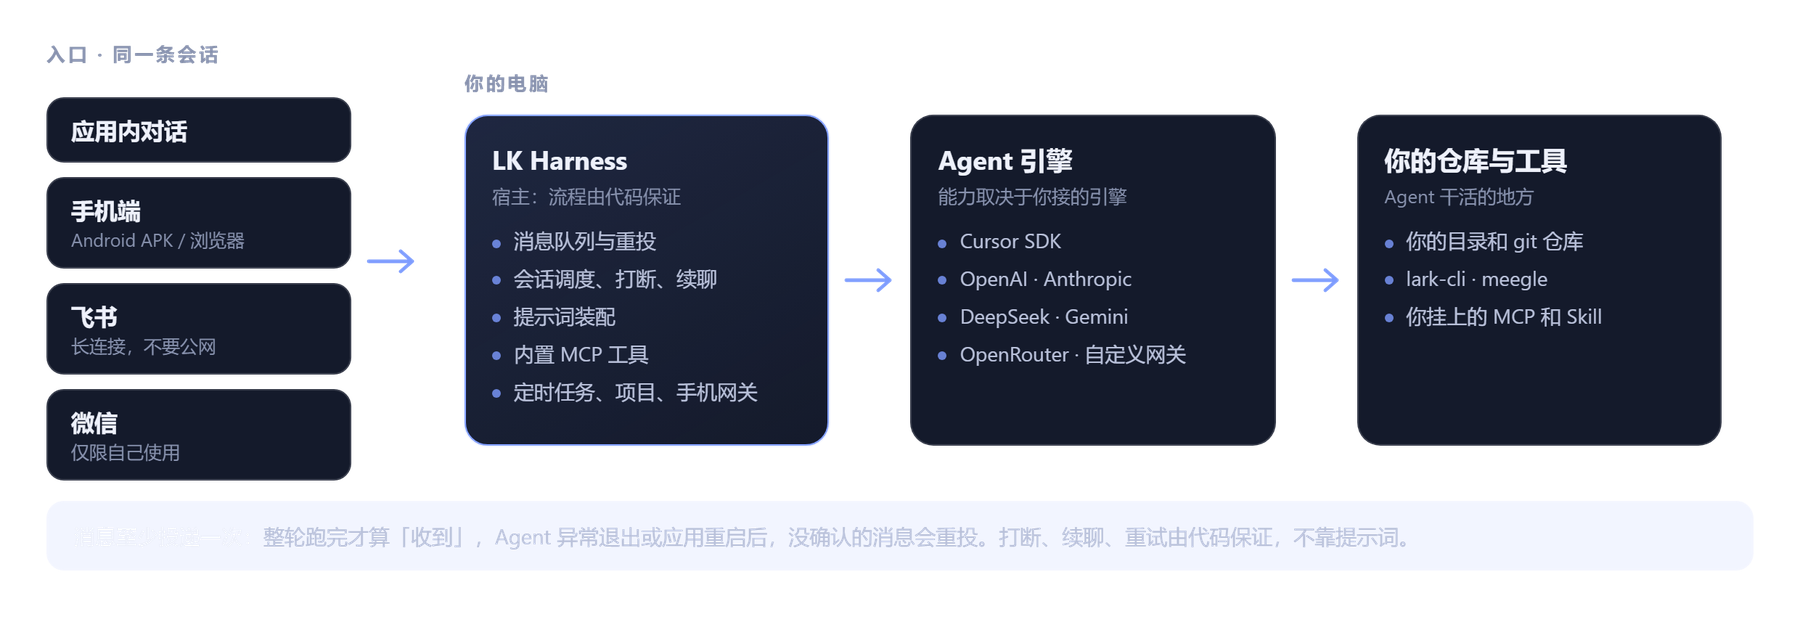
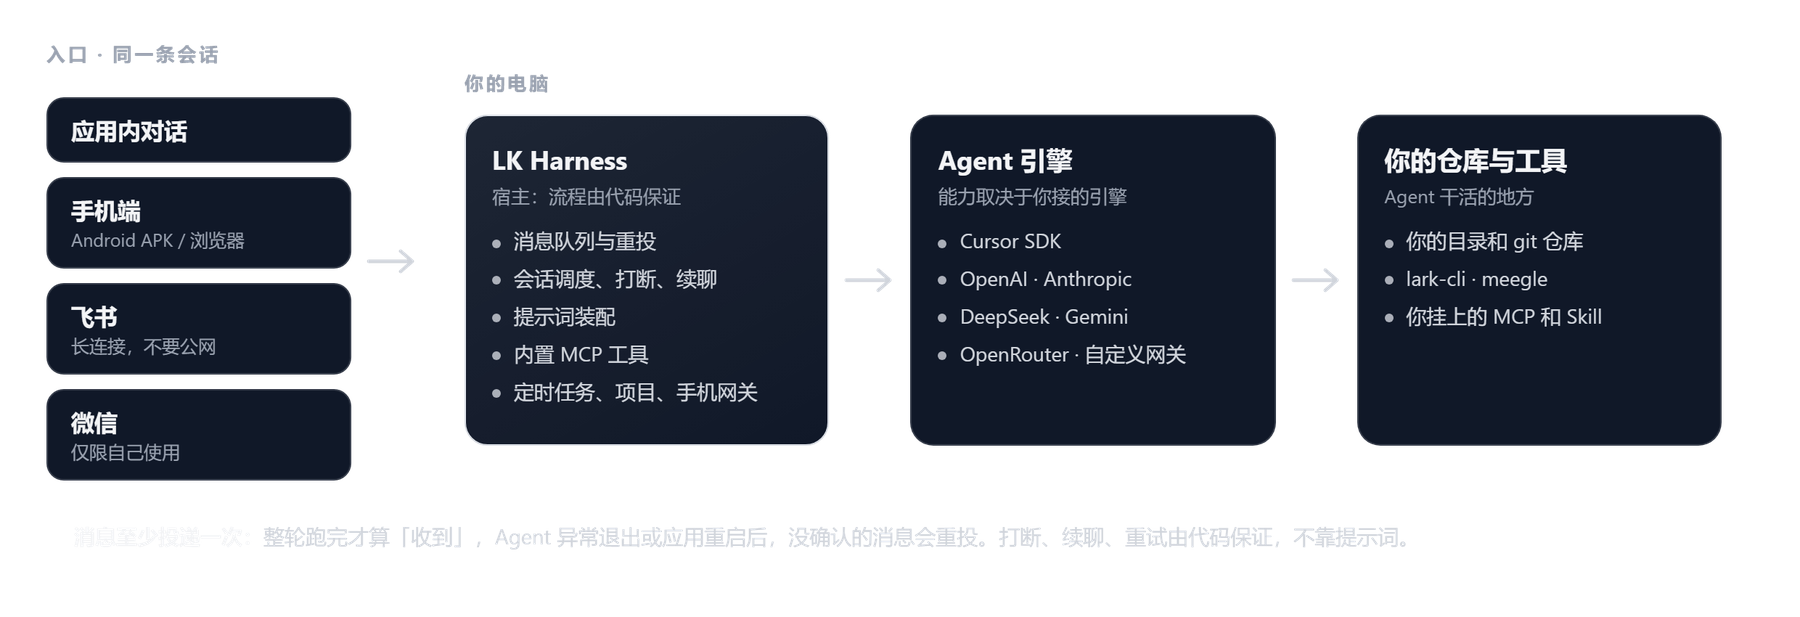
docs: 官网加浅色/深色主题切换，介绍图按新图标和墨色配色重出
官网
- 导航栏加主题按钮：初始跟随系统，选择记在浏览器里；渲染前就定好主题，不闪屏
- 浅色下首屏和手机端的截图换成浅色版，隐藏的那套不下载
- 页面配色改成和应用一致的墨色（深色取应用深色主题，浅色取浅色主题），
  主按钮反色，去掉蓝紫渐变

介绍图
- 用当前代码重新渲染桌面端和手机端截图：带上新的 LK 图标和墨色配色
- 工作原理图的配色同步改成墨色
- README 引用的是同一批图，文字不用改

diff --git a/docs/harness-site/index.html b/docs/harness-site/index.html
@@ -3,7 +3,18 @@
 <head>
   <meta charset="UTF-8">
   <meta name="viewport" content="width=device-width, initial-scale=1">
-  <meta name="theme-color" content="#07080d">
+  <meta name="theme-color" content="#030712">
+  <script>
+    // 渲染前就定好主题，避免先闪一下深色：优先用访客上次的选择，没有就跟随系统，取不到按深色
+    (function () {
+      var t = null
+      try { t = localStorage.getItem("lk-harness-theme") } catch (e) { t = null }
+      if (t !== "light" && t !== "dark") {
+        t = window.matchMedia && window.matchMedia("(prefers-color-scheme: light)").matches ? "light" : "dark"
+      }
+      document.documentElement.setAttribute("data-theme", t)
+    })()
+  </script>
   <title>LK Harness — 你离开电脑，Agent 不用停</title>
   <meta name="description" content="LK Harness 是装在你电脑上的桌面应用：Agent 在你自己的目录和仓库里干活，你在应用、手机、飞书或微信里发一句话就能指挥它，过程实时回传，要拿主意时点一下就继续。开源，MIT。">
   <link rel="canonical" href="https://lk-ai.top/harness/">
@@ -13,13 +24,28 @@
   <meta property="og:url" content="https://lk-ai.top/harness/">
   <link rel="icon" type="image/png" href="img/logo.png">
   <style>
+    /* 配色与应用同一套墨色：深色取自应用深色主题，浅色取自浅色主题；主按钮反色，不再用彩色强调 */
     :root {
       color-scheme: dark;
-      --bg: #07080d; --panel: #0f1320; --panel2: #141a2b; --line: rgba(255,255,255,.08); --line2: rgba(255,255,255,.15);
-      --text: #eef1f8; --soft: #c3cadb; --muted: #8d96ac;
-      --accent: #6c8dff; --accent2: #9a73ff; --ok: #3ddc97; --warn: #f6c453;
-      --glow: rgba(108,141,255,.32); --max: 1120px;
+      --bg: #030712; --panel: #101828; --panel2: #1e2939; --line: rgba(255,255,255,.09); --line2: rgba(255,255,255,.17);
+      --text: #f3f4f6; --soft: #d1d5dc; --muted: #99a1af;
+      --accent: #d1d5dc; --primary: #f3f4f6; --primary-hover: #d1d5dc; --on-primary: #030712; --ok: #05df72;
+      --hover-line: rgba(255,255,255,.36); --soft-bg: rgba(255,255,255,.05); --tint: rgba(255,255,255,.06); --tint-line: rgba(255,255,255,.16);
+      --nav-bg: rgba(3,7,18,.78); --btn-shadow: rgba(255,255,255,.10); --glow-top: rgba(255,255,255,.10); --glow-side: rgba(255,255,255,.05);
+      --grad: linear-gradient(120deg, #ffffff 0%, #d1d5dc 55%, #99a1af 100%);
+      --code-bg: #0d1117; --code-fg: #e6edf3; --max: 1120px;
     }
+    html[data-theme="light"] {
+      color-scheme: light;
+      --bg: #ffffff; --panel: #f8f9fb; --panel2: #f0f2f5; --line: rgba(15,23,42,.10); --line2: rgba(15,23,42,.18);
+      --text: #0f172a; --soft: #334155; --muted: #64748b;
+      --accent: #334155; --primary: #0f172a; --primary-hover: #334155; --on-primary: #ffffff; --ok: #15803d;
+      --hover-line: rgba(15,23,42,.38); --soft-bg: rgba(15,23,42,.04); --tint: rgba(15,23,42,.05); --tint-line: rgba(15,23,42,.14);
+      --nav-bg: rgba(255,255,255,.82); --btn-shadow: rgba(15,23,42,.18); --glow-top: rgba(15,23,42,.06); --glow-side: rgba(15,23,42,.03);
+      --grad: linear-gradient(120deg, #0f172a 0%, #334155 55%, #64748b 100%);
+      --code-bg: #f6f8fa; --code-fg: #24292f;
+    }
+    html:not([data-theme="light"]) .only-light, html[data-theme="light"] .only-dark { display: none; }
     * { box-sizing: border-box; margin: 0; padding: 0; }
     html { scroll-behavior: smooth; }
     body {
@@ -33,13 +59,13 @@
     .glow {
       position: fixed; inset: 0; z-index: -1; pointer-events: none;
       background:
-        radial-gradient(ellipse 70% 45% at 50% -10%, rgba(108,141,255,.22), transparent 62%),
-        radial-gradient(ellipse 45% 35% at 95% 12%, rgba(154,115,255,.14), transparent 60%);
+        radial-gradient(ellipse 70% 45% at 50% -10%, var(--glow-top), transparent 62%),
+        radial-gradient(ellipse 45% 35% at 95% 12%, var(--glow-side), transparent 60%);
     }
     .wrap { max-width: var(--max); margin: 0 auto; padding: 0 24px; }
 
     /* 导航 */
-    nav { position: sticky; top: 0; z-index: 50; backdrop-filter: blur(16px); background: rgba(7,8,13,.74); border-bottom: 1px solid var(--line); }
+    nav { position: sticky; top: 0; z-index: 50; backdrop-filter: blur(16px); background: var(--nav-bg); border-bottom: 1px solid var(--line); }
     .nav-in { display: flex; align-items: center; justify-content: space-between; gap: 16px; height: 60px; }
     .logo { display: inline-flex; align-items: center; gap: 10px; font-weight: 700; letter-spacing: -.02em; text-decoration: none; }
     .logo img { display: block; width: 26px; height: 26px; border-radius: 7px; }
@@ -47,18 +73,23 @@
     .nav-links a { text-decoration: none; }
     .nav-links a:hover { color: var(--text); }
     .btn { display: inline-flex; align-items: center; justify-content: center; gap: 6px; padding: 10px 20px; border-radius: 999px; font-size: .9rem; font-weight: 600; text-decoration: none; border: 1px solid transparent; transition: transform .2s, border-color .2s; }
-    .btn-primary { background: linear-gradient(135deg, var(--accent), var(--accent2)); color: #fff; box-shadow: 0 8px 30px var(--glow); }
-    .btn-primary:hover { transform: translateY(-1px); }
-    .btn-ghost { background: rgba(255,255,255,.05); border-color: var(--line2); }
-    .btn-ghost:hover { border-color: rgba(108,141,255,.55); }
+    .btn-primary { background: var(--primary); color: var(--on-primary); box-shadow: 0 8px 30px var(--btn-shadow); }
+    .btn-primary:hover { background: var(--primary-hover); transform: translateY(-1px); }
+    .btn-ghost { background: var(--soft-bg); border-color: var(--line2); }
+    .btn-ghost:hover { border-color: var(--hover-line); }
     .btn-sm { padding: 7px 16px; font-size: .84rem; }
+    .nav-actions { display: flex; align-items: center; gap: 10px; }
+    .theme-btn { display: inline-flex; align-items: center; justify-content: center; width: 34px; height: 34px; padding: 0; border-radius: 50%; border: 1px solid var(--line2); background: var(--soft-bg); color: var(--soft); cursor: pointer; transition: border-color .2s, color .2s; }
+    .theme-btn:hover { border-color: var(--hover-line); color: var(--text); }
+    .theme-btn svg { width: 17px; height: 17px; fill: none; stroke: currentColor; stroke-width: 1.8; stroke-linecap: round; stroke-linejoin: round; }
+    html:not([data-theme="light"]) .theme-btn .i-moon, html[data-theme="light"] .theme-btn .i-sun { display: none; }
 
     /* 首屏 */
     .hero { padding: 88px 0 40px; text-align: center; }
-    .pill { display: inline-flex; align-items: center; gap: 8px; padding: 6px 14px; border-radius: 999px; font-size: .78rem; color: var(--muted); border: 1px solid var(--line); background: rgba(255,255,255,.03); margin-bottom: 26px; }
+    .pill { display: inline-flex; align-items: center; gap: 8px; padding: 6px 14px; border-radius: 999px; font-size: .78rem; color: var(--muted); border: 1px solid var(--line); background: var(--soft-bg); margin-bottom: 26px; }
     .pill b { width: 6px; height: 6px; border-radius: 50%; background: var(--ok); box-shadow: 0 0 10px var(--ok); }
     h1 { font-size: clamp(2.6rem, 6.4vw, 4.6rem); font-weight: 800; letter-spacing: -.045em; line-height: 1.06; margin-bottom: 22px; }
-    h1 .grad { background: linear-gradient(120deg, #fff 0%, #b9c6ff 45%, var(--accent) 100%); -webkit-background-clip: text; background-clip: text; color: transparent; }
+    h1 .grad { background: var(--grad); -webkit-background-clip: text; background-clip: text; color: transparent; }
     .lead { max-width: 700px; margin: 0 auto 34px; font-size: 1.14rem; color: var(--soft); text-wrap: balance; }
     .cta { display: flex; flex-wrap: wrap; gap: 12px; justify-content: center; }
     .cta-note { margin-top: 16px; font-size: .82rem; color: var(--muted); }
@@ -78,7 +109,7 @@
     /* 工作方式 */
     .steps { display: grid; grid-template-columns: repeat(3, 1fr); gap: 16px; counter-reset: s; }
     .step { position: relative; padding: 28px; border: 1px solid var(--line); border-radius: 16px; background: var(--panel); }
-    .step::before { counter-increment: s; content: counter(s); display: flex; align-items: center; justify-content: center; width: 30px; height: 30px; border-radius: 50%; margin-bottom: 18px; font-size: .85rem; font-weight: 700; color: #fff; background: linear-gradient(135deg, var(--accent), var(--accent2)); }
+    .step::before { counter-increment: s; content: counter(s); display: flex; align-items: center; justify-content: center; width: 30px; height: 30px; border-radius: 50%; margin-bottom: 18px; font-size: .85rem; font-weight: 700; color: var(--on-primary); background: var(--primary); }
     .step h3 { font-size: 1.05rem; margin-bottom: 8px; }
     .step p { font-size: .92rem; color: var(--muted); }
 
@@ -86,13 +117,13 @@
     .bento { display: grid; grid-template-columns: repeat(6, 1fr); gap: 16px; }
     .tile { grid-column: span 2; padding: 28px; border: 1px solid var(--line); border-radius: 16px; background: linear-gradient(150deg, var(--panel2), var(--panel)); transition: border-color .25s, transform .25s; }
     .tile.w { grid-column: span 3; }
-    .tile:hover { border-color: rgba(108,141,255,.4); transform: translateY(-3px); }
-    .ico { width: 40px; height: 40px; border-radius: 11px; margin-bottom: 16px; display: flex; align-items: center; justify-content: center; color: #b9c6ff; background: rgba(108,141,255,.13); border: 1px solid rgba(108,141,255,.28); }
+    .tile:hover { border-color: var(--hover-line); transform: translateY(-3px); }
+    .ico { width: 40px; height: 40px; border-radius: 11px; margin-bottom: 16px; display: flex; align-items: center; justify-content: center; color: var(--text); background: var(--tint); border: 1px solid var(--tint-line); }
     .ico svg { width: 20px; height: 20px; fill: none; stroke: currentColor; stroke-width: 1.8; stroke-linecap: round; stroke-linejoin: round; }
     .tile h3 { font-size: 1.06rem; margin-bottom: 8px; }
     .tile p { font-size: .9rem; color: var(--muted); }
     .tile p + p { margin-top: 8px; }
-    .tile code { font-size: .84em; padding: 1px 6px; border-radius: 6px; background: rgba(255,255,255,.08); color: #c9d3ff; }
+    .tile code { font-size: .84em; padding: 1px 6px; border-radius: 6px; background: var(--tint); color: var(--text); }
     .tags { display: flex; flex-wrap: wrap; gap: 8px; margin-top: 16px; }
     .tags span { font-size: .74rem; padding: 3px 11px; border-radius: 999px; border: 1px solid var(--line2); color: var(--soft); }
 
@@ -102,9 +133,9 @@
     .node small { display: block; font-size: .68rem; letter-spacing: .12em; color: var(--accent); font-weight: 700; margin-bottom: 8px; }
     .node h3 { font-size: 1rem; margin-bottom: 8px; }
     .node p { font-size: .84rem; color: var(--muted); }
-    .node.host { background: linear-gradient(160deg, rgba(108,141,255,.16), rgba(154,115,255,.07)), var(--panel); }
-    .principle { margin-top: 24px; padding: 20px 24px; border-radius: 14px; border: 1px solid rgba(108,141,255,.28); background: rgba(108,141,255,.07); color: var(--soft); }
-    .principle b { color: #fff; }
+    .node.host { background: linear-gradient(var(--tint), var(--tint)), var(--panel); }
+    .principle { margin-top: 24px; padding: 20px 24px; border-radius: 14px; border: 1px solid var(--tint-line); background: var(--tint); color: var(--soft); }
+    .principle b { color: var(--text); }
 
     /* 边界 */
     .limits { display: grid; grid-template-columns: repeat(2, 1fr); gap: 12px 16px; list-style: none; }
@@ -114,21 +145,21 @@
     /* 下载 */
     .dl { display: grid; grid-template-columns: repeat(4, 1fr); gap: 16px; }
     .dl-card { display: flex; flex-direction: column; padding: 24px; border: 1px solid var(--line); border-radius: 16px; background: var(--panel); text-decoration: none; transition: border-color .25s, transform .25s; }
-    .dl-card:hover { border-color: rgba(108,141,255,.5); transform: translateY(-3px); }
+    .dl-card:hover { border-color: var(--hover-line); transform: translateY(-3px); }
     .dl-card h3 { font-size: 1.04rem; margin-bottom: 4px; }
-    .dl-card .fmt { font-size: .82rem; color: #b9c6ff; margin-bottom: 12px; }
+    .dl-card .fmt { font-size: .82rem; color: var(--soft); margin-bottom: 12px; }
     .dl-card p { font-size: .84rem; color: var(--muted); }
     .twin { display: grid; grid-template-columns: 1fr 1fr; gap: 16px; margin-top: 16px; }
     .box { padding: 22px 24px; border: 1px solid var(--line); border-radius: 14px; background: var(--panel); min-width: 0; }
     .box h3 { font-size: .95rem; margin-bottom: 10px; }
     .box p { font-size: .86rem; color: var(--muted); margin-bottom: 10px; }
-    pre { padding: 14px 16px; border-radius: 10px; background: #070a12; border: 1px solid var(--line); font-size: .8rem; line-height: 1.7; color: #cdd6f4; overflow-x: auto; }
+    pre { padding: 14px 16px; border-radius: 10px; background: var(--code-bg); border: 1px solid var(--line); font-size: .8rem; line-height: 1.7; color: var(--code-fg); overflow-x: auto; }
 
     /* 来历 */
     .repos { display: grid; grid-template-columns: repeat(3, 1fr); gap: 16px; }
     .repo { display: flex; flex-direction: column; padding: 24px; border: 1px solid var(--line); border-radius: 16px; background: var(--panel); text-decoration: none; transition: border-color .25s, transform .25s; }
-    .repo:hover { border-color: rgba(108,141,255,.5); transform: translateY(-3px); }
-    .repo.now { border-color: rgba(108,141,255,.45); background: linear-gradient(150deg, rgba(108,141,255,.15), var(--panel)); }
+    .repo:hover { border-color: var(--hover-line); transform: translateY(-3px); }
+    .repo.now { border-color: var(--hover-line); background: linear-gradient(150deg, var(--tint-line), var(--panel)); }
     .repo small { font-size: .68rem; letter-spacing: .12em; color: var(--accent); font-weight: 700; margin-bottom: 8px; }
     .repo h3 { font-size: 1rem; margin-bottom: 8px; font-family: ui-monospace, "SF Mono", Consolas, monospace; }
     .repo p { font-size: .86rem; color: var(--muted); }
@@ -192,7 +223,13 @@
         <a href="#download">下载</a>
         <a href="#support">联系与赞赏</a>
       </div>
-      <a class="btn btn-primary btn-sm" href="#download">下载</a>
+      <div class="nav-actions">
+        <button class="theme-btn" id="theme-btn" type="button" aria-label="切换主题" title="切换主题">
+          <svg class="i-sun" viewBox="0 0 24 24" aria-hidden="true"><circle cx="12" cy="12" r="4"/><path d="M12 2v2M12 20v2M4.9 4.9l1.4 1.4M17.7 17.7l1.4 1.4M2 12h2M20 12h2M4.9 19.1l1.4-1.4M17.7 6.3l1.4-1.4"/></svg>
+          <svg class="i-moon" viewBox="0 0 24 24" aria-hidden="true"><path d="M21 12.8A9 9 0 1111.2 3a7 7 0 009.8 9.8z"/></svg>
+        </button>
+        <a class="btn btn-primary btn-sm" href="#download">下载</a>
+      </div>
     </div>
   </nav>
 
@@ -208,7 +245,9 @@
       <p class="cta-note">需要接入一个 Cursor 账号，或任意大模型 API</p>
 
       <figure class="shot">
-        <img src="img/hero-dark.png" width="2000" height="1394" fetchpriority="high"
+        <img class="only-dark" src="img/hero-dark.png" width="2000" height="1394" loading="lazy"
+             alt="LK Harness 桌面端：左侧会话列表，中间对话流里有工具调用、任务清单和点选问题，右侧预览面板打开着代码文件">
+        <img class="only-light" src="img/hero-light.png" width="2000" height="1394" loading="lazy"
              alt="LK Harness 桌面端：左侧会话列表，中间对话流里有工具调用、任务清单和点选问题，右侧预览面板打开着代码文件">
         <figcaption>桌面端：对话、工具调用过程和文件预览在同一个窗口里。截图为示例数据。</figcaption>
       </figure>
@@ -244,7 +283,9 @@
       <p class="desc">用 Android APK 或浏览器扫码配对，就能和电脑上的 Agent 接着聊：看进度、发消息和图片、点选问题、切模型、预览文件。</p>
       <figure class="shot phones">
         <div class="scroll-x">
-          <img src="img/phones-dark.png" width="1600" height="1083" loading="lazy"
+          <img class="only-dark" src="img/phones-dark.png" width="1600" height="1083" loading="lazy"
+               alt="手机端三个界面：对话与点选问题、会话列表抽屉、代码文件预览">
+          <img class="only-light" src="img/phones-light.png" width="1600" height="1083" loading="lazy"
                alt="手机端三个界面：对话与点选问题、会话列表抽屉、代码文件预览">
         </div>
         <figcaption>手机端：对话和点选问题、会话列表、预览 Agent 产出的文件。截图为示例数据。</figcaption>
@@ -448,6 +489,29 @@ brew install --cask lk-harness</pre>
     </div>
   </footer>
 
+  <script>
+    // 主题切换：初始主题在 <head> 里已定；这里只管按钮、地址栏颜色和记住访客的选择
+    (function () {
+      var root = document.documentElement
+      var btn = document.getElementById("theme-btn")
+      var meta = document.querySelector('meta[name="theme-color"]')
+      var bars = { dark: "#030712", light: "#ffffff" }
+      function sync() {
+        var light = root.getAttribute("data-theme") === "light"
+        if (meta) meta.setAttribute("content", light ? bars.light : bars.dark)
+        var label = light ? "切换到深色模式" : "切换到浅色模式"
+        btn.setAttribute("aria-label", label)
+        btn.setAttribute("title", label)
+      }
+      btn.addEventListener("click", function () {
+        var next = root.getAttribute("data-theme") === "light" ? "dark" : "light"
+        root.setAttribute("data-theme", next)
+        try { localStorage.setItem("lk-harness-theme", next) } catch (e) { /* 隐私模式不能存，本次仍然生效 */ }
+        sync()
+      })
+      sync()
+    })()
+  </script>
   <script>
     // 版本号不写死：能连上 GitHub 就补上最新版本，连不上保持「下载最新版」
     (function () {
